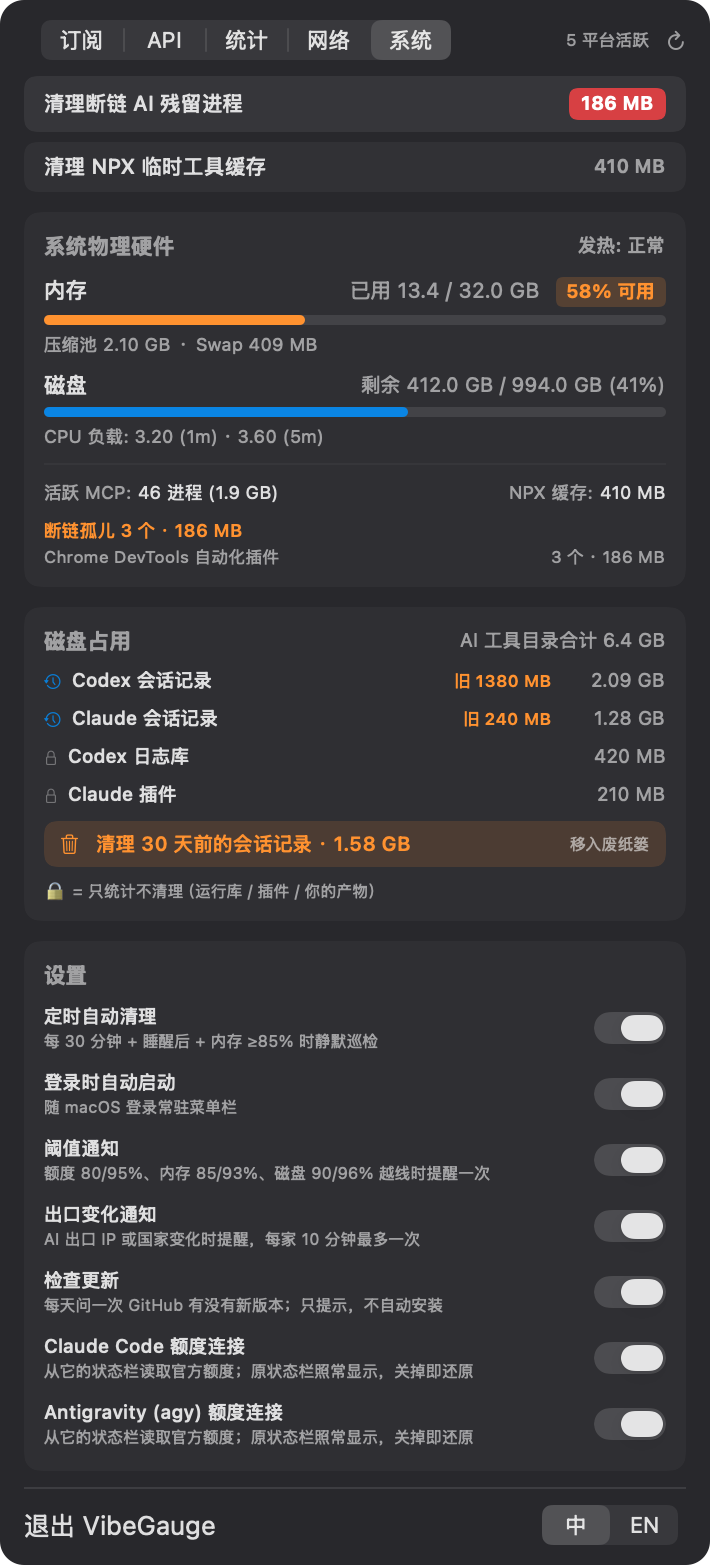
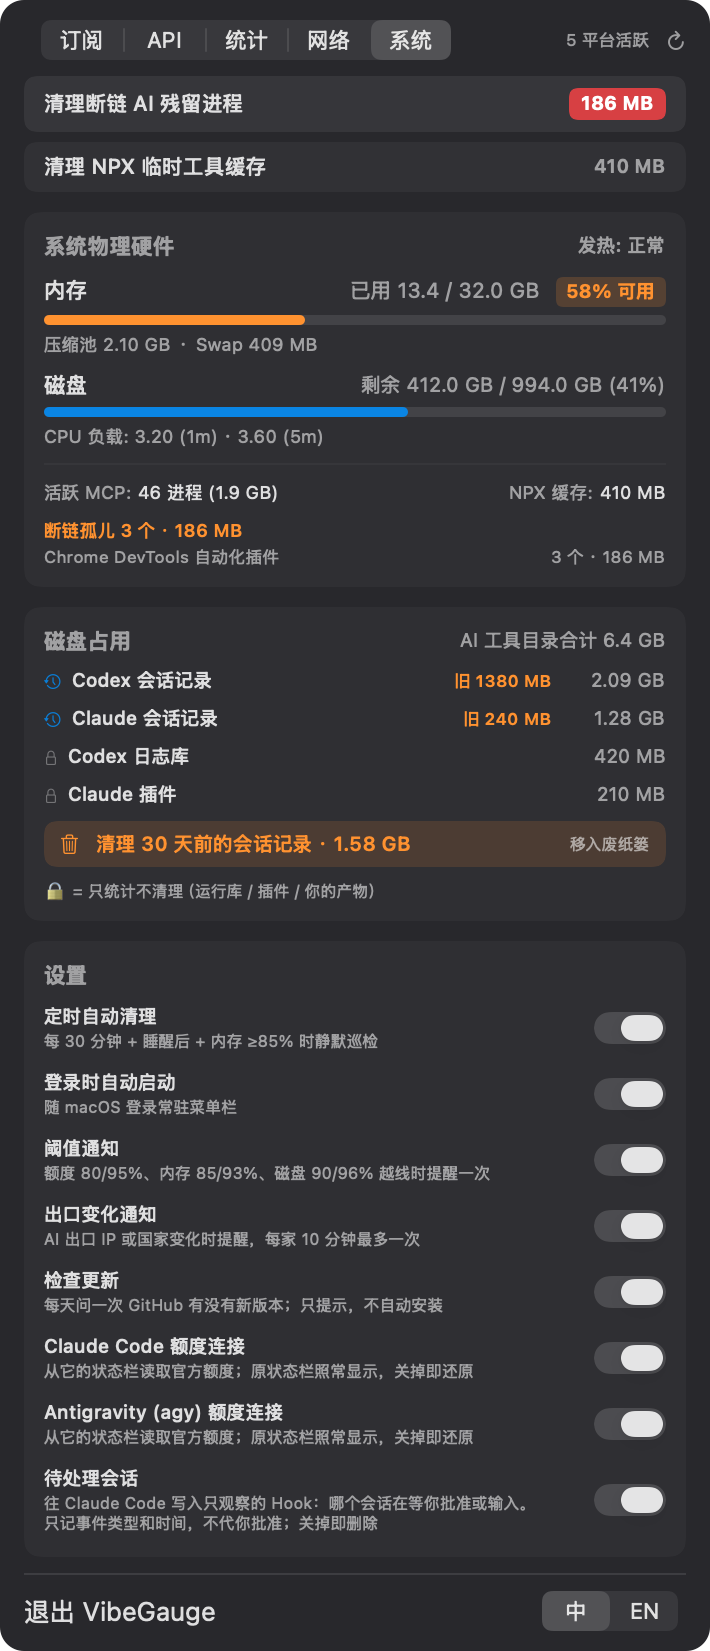
feat: sessions waiting on you, via observe-only Claude Code hooks (C3)
Opt-in "Pending sessions" (Mac -> Settings) appends observe-only hooks to
~/.claude/settings.json (backed up first; existing hooks kept; turning it off
removes only these entries). The hook records per session the event type,
time, working directory, and tool name, never tool input, messages, or
prompts, writes nothing to stdout (for PermissionRequest that would answer
the prompt), and always exits 0 within a 5 s timeout.

- PermissionRequest marks a session as possibly waiting; the panel trusts it
  after 8 s (another hook may have answered) or at once when Claude's own
  permission_prompt notification confirms it. idle_prompt / MCP elicitation
  mean waiting for input. PostToolUse(Failure), UserPromptSubmit, Stop, and
  SessionEnd clear the session; clear events for unknown sessions do not
  touch the file.
- The Plans tab lists waiting sessions (approval first, oldest first); a
  notification fires once per wait after 60 s of waiting for approval.
- Codex is not covered yet (different hook model and client trust review).

Self-tests: merge / uninstall keep other hooks byte-for-byte, zero stdout on
every event including bad input, no command or message text on disk, state
transitions, 8 s confirmation rule.

diff --git a/Sources/AppDelegate.swift b/Sources/AppDelegate.swift
@@ -298,6 +298,7 @@ class AppDelegate: NSObject, NSApplicationDelegate, NSMenuDelegate {
                           + signals.prefix(8).map { "\($0.short)  \($0.pct)%" + ($0.level > 0 ? "  ⚠" : "") }).joined(separator: "\n")
         evaluateThresholds(signals)
         evaluateForecasts(report)
+        evaluatePending(report)
     }
 
     // MARK: - 预计打满提醒（每池每周期一次；预测要持续 15 分钟才算稳定；重启不重报）
@@ -490,6 +491,7 @@ class AppDelegate: NSObject, NSApplicationDelegate, NSMenuDelegate {
         actions.relayout = { [weak self] in self?.relayoutMenuPanel() }
         actions.quit = { NSApp.terminate(nil) }
         actions.setQuotaBridge = { [weak self] tool, on in self?.setQuotaBridge(tool, on: on) }
+        actions.setPendingHooks = { [weak self] on in self?.setPendingHooks(on) }
 
         let dashboard = DashboardView(
             store: reportStore,
@@ -617,6 +619,45 @@ class AppDelegate: NSObject, NSApplicationDelegate, NSMenuDelegate {
     }
 
     /// 连接 / 断开状态栏桥接（改的是 Claude Code / agy 的 settings.json，脚本会先备份）
+    /// 待处理会话：往 Claude Code 的 hooks 里写（或删）本脚本的观察型 Hook
+    func setPendingHooks(_ on: Bool) {
+        DispatchQueue.global(qos: .userInitiated).async { [weak self] in
+            var title = on ? L("待处理会话已开启", "Pending sessions on") : L("待处理会话已关闭", "Pending sessions off")
+            var body = on
+                ? L("新开的 Claude Code 会话生效。只记事件类型和时间，不代你批准；原配置已备份为 settings.json.vibegauge-hooks-backup。",
+                    "Takes effect in new Claude Code sessions. Only event types and times are recorded; it never answers for you. Settings backed up to settings.json.vibegauge-hooks-backup.")
+                : L("已从 Claude Code 配置里删掉 VibeGauge 的 Hook，其他 Hook 不动。", "VibeGauge's hooks were removed from Claude Code settings; other hooks are untouched.")
+            do {
+                if on { try StatuslineBridge.shared.connectHooks() } else { try StatuslineBridge.shared.disconnectHooks() }
+            } catch {
+                title = on ? L("开启失败", "Couldn't turn on") : L("关闭失败", "Couldn't turn off")
+                body = error.localizedDescription
+            }
+            DispatchQueue.main.async {
+                self?.sendNotification(title: title, body: body)
+                self?.updateStatus()
+            }
+        }
+    }
+
+    // MARK: - 等你处理的会话提醒：等批准超过 1 分钟，每次等待只提醒一次
+    private var pendingNotified = Set<String>()
+    static let pendingNotifyAfter: TimeInterval = 60
+
+    private func evaluatePending(_ report: ScanReport) {
+        let now = Date().timeIntervalSince1970
+        let live = Set(report.pending.map { "\($0.id)@\(Int($0.since))" })
+        pendingNotified = pendingNotified.filter { live.contains($0) }
+        for p in report.pending where p.kind == .permission && now - p.since >= Self.pendingNotifyAfter {
+            let key = "\(p.id)@\(Int(p.since))"
+            guard pendingNotified.insert(key).inserted else { continue }
+            let dir = (p.cwd as NSString).lastPathComponent
+            sendNotification(title: L("⏸ 会话在等你批准", "⏸ A session is waiting for approval"),
+                             body: L("\(dir.isEmpty ? "Claude Code" : dir)：\(p.tool.isEmpty ? "工具调用" : p.tool) 已等 \(Int((now - p.since) / 60)) 分钟",
+                                     "\(dir.isEmpty ? "Claude Code" : dir): \(p.tool.isEmpty ? "a tool call" : p.tool) waiting for \(Int((now - p.since) / 60)) min"))
+        }
+    }
+
     func setQuotaBridge(_ raw: String, on: Bool) {
         guard let tool = StatuslineBridge.Tool(rawValue: raw) else { return }
         let name = tool == .claude ? "Claude Code" : "agy"

diff --git a/Sources/DashboardView.swift b/Sources/DashboardView.swift
@@ -119,6 +119,8 @@ public struct PanelActions {
     public var quit: () -> Void = {}
     /// 状态栏桥接：("claude" | "agy", 连接 / 断开)
     public var setQuotaBridge: (String, Bool) -> Void = { _, _ in }
+    /// 待处理会话 Hook（写入 / 删除 Claude Code 配置里的观察型 Hook）
+    public var setPendingHooks: (Bool) -> Void = { _ in }
     public init() {}
 }
 
@@ -707,6 +709,10 @@ public struct DashboardView: View {
                 }
             }
 
+            if !report.pending.isEmpty {
+                Divider().opacity(0.35)
+                pendingSection(report.pending)
+            }
             if !report.sessions.isEmpty {
                 Divider().opacity(0.35)
                 sessionContextSection(report.sessions)
@@ -1065,6 +1071,11 @@ public struct DashboardView: View {
                                isOn: Binding(get: { isDemo || StatuslineBridge.shared.isConnected(t) }, set: { actions.setQuotaBridge(tool, $0) }))
                 }
             }
+            if isDemo || StatuslineBridge.shared.toolInstalled(.claude) {
+                settingRow(L("待处理会话", "Pending sessions"),
+                           detail: L("往 Claude Code 写入只观察的 Hook：哪个会话在等你批准或输入。只记事件类型和时间，不代你批准；关掉即删除", "Adds observe-only hooks to Claude Code to show which sessions wait for approval or input. Records event types and times only; never answers for you; off removes them"),
+                           isOn: Binding(get: { isDemo || StatuslineBridge.shared.hooksConnected() }, set: { actions.setPendingHooks($0) }))
+            }
         }
         .padding(10)
         .background(Color.secondary.opacity(0.06))
@@ -1401,6 +1412,29 @@ public struct DashboardView: View {
                 .foregroundColor(llm.isRunning ? .secondary : .secondary.opacity(0.75))
                 .lineLimit(1)
                 .fixedSize()
+        }
+    }
+
+    /// 等你处理的会话：等批准的排前面，按等了多久
+    private func pendingSection(_ items: [PendingSession]) -> some View {
+        VStack(alignment: .leading, spacing: 3) {
+            HStack {
+                Text(L("待处理", "Waiting on you")).font(.system(size: 11, weight: .bold)).foregroundColor(.orange)
+                Spacer()
+                Text(L("\(items.count) 个会话", "\(items.count) sessions")).font(.system(size: 9)).foregroundColor(.secondary)
+            }
+            ForEach(items.sorted { ($0.kind == .permission ? 0 : 1, $0.since) < ($1.kind == .permission ? 0 : 1, $1.since) }) { p in
+                HStack(spacing: 5) {
+                    Image(systemName: p.kind == .permission ? "hand.raised.fill" : "text.cursor")
+                        .font(.system(size: 8)).foregroundColor(p.kind == .permission ? .orange : .blue)
+                    Text((p.cwd as NSString).lastPathComponent.isEmpty ? "Claude Code" : (p.cwd as NSString).lastPathComponent)
+                        .font(.system(size: 9, weight: .semibold)).lineLimit(1)
+                    Text(p.kind == .permission ? L("等你批准", "needs approval") + (p.tool.isEmpty ? "" : " · \(p.tool)") : L("等你输入", "waiting for input"))
+                        .font(.system(size: 8.5)).foregroundColor(.secondary).lineLimit(1)
+                    Spacer(minLength: 4)
+                    Text(Fmt.agoShort(Int(nowTS - p.since))).font(.system(size: 8.5)).foregroundColor(nowTS - p.since > 300 ? .orange : .secondary)
+                }
+            }
         }
     }
 

diff --git a/Sources/SessionMonitor.swift b/Sources/SessionMonitor.swift
@@ -120,3 +120,39 @@ extension ProcessScanner {
         return out.sorted { $0.updatedAt > $1.updatedAt }
     }
 }
+
+/// 在等你处理的会话（来自 Claude Code 的观察型 Hook；只有事件类型、时间、会话 ID、目录、工具名）
+public struct PendingSession: Identifiable, Equatable {
+    public enum Kind: Equatable { case permission, input }
+    public var id: String
+    public var kind: Kind
+    public var since: TimeInterval
+    public var tool: String
+    public var cwd: String
+}
+
+extension ProcessScanner {
+    /// PermissionRequest 之后可能被别的 Hook 自动处理掉：记下 8 秒后还没清除，或收到 Claude 自己的
+    /// permission_prompt 通知（约 6 秒后发），才算真的在等你
+    static let permissionConfirmAfter: TimeInterval = 8
+
+    static func parsePending(_ json: [String: Any]?, now: TimeInterval) -> [PendingSession] {
+        let rows = json?["sessions"] as? [String: Any] ?? [:]
+        return rows.compactMap { sid, v -> PendingSession? in
+            guard let r = v as? [String: Any], let state = r["state"] as? String,
+                  let since = (r["since"] as? NSNumber)?.doubleValue else { return nil }
+            let kind: PendingSession.Kind
+            switch state {
+            case "permission": kind = .permission
+            case "permission_pending" where now - since >= permissionConfirmAfter: kind = .permission
+            case "input": kind = .input
+            default: return nil
+            }
+            return PendingSession(id: sid, kind: kind, since: since, tool: r["tool"] as? String ?? "", cwd: r["cwd"] as? String ?? "")
+        }.sorted { $0.since < $1.since }
+    }
+
+    func scanPending(now: TimeInterval = Date().timeIntervalSince1970) -> [PendingSession] {
+        Self.parsePending(readJSON("\(home)/.config/vibegauge/claude-waiting.json"), now: now)
+    }
+}

diff --git a/Sources/ProxyManager.swift b/Sources/ProxyManager.swift
@@ -219,9 +219,36 @@ final class StatuslineBridge {
         try runScript(["--uninstall", tool.rawValue])
     }
 
+    /// 待处理会话 Hook 已写进 Claude Code 配置（hooks 里有本脚本的 --hook 命令）
+    func hooksConnected() -> Bool {
+        guard let data = FileManager.default.contents(atPath: settingsPath(.claude)),
+              let json = try? JSONSerialization.jsonObject(with: data) as? [String: Any],
+              let hooks = json["hooks"] as? [String: Any] else { return false }
+        return hooks.values.contains { groups in
+            (groups as? [[String: Any]] ?? []).contains { g in
+                (g["hooks"] as? [[String: Any]] ?? []).contains { ($0["command"] as? String).map { $0.contains("vibegauge-statusline.py") && $0.contains("--hook") } ?? false }
+            }
+        }
+    }
+
+    func connectHooks() throws {
+        lock.lock(); defer { lock.unlock() }
+        guard ProxyManager.pythonWorks() else {
+            throw NSError(domain: "VibeGauge", code: 2, userInfo: [NSLocalizedDescriptionKey:
+                L("python3 不可用：请先在终端运行 xcode-select --install 安装命令行工具", "python3 is unavailable: run `xcode-select --install` in Terminal first")])
+        }
+        try syncScript()
+        try runScript(["--install-hooks", "claude"])
+    }
+
+    func disconnectHooks() throws {
+        lock.lock(); defer { lock.unlock() }
+        try runScript(["--uninstall-hooks", "claude"])
+    }
+
     /// App 启动时：连着的话把包里新版脚本同步过去（内容相同不写）
     func syncIfConnected() {
-        guard Tool.allCases.contains(where: isConnected) else { return }
+        guard Tool.allCases.contains(where: isConnected) || hooksConnected() else { return }
         try? syncScript()
     }
 

diff --git a/Sources/SelfTest.swift b/Sources/SelfTest.swift
@@ -187,6 +187,20 @@ enum SelfTest {
             precondition(err.fiveHour == nil && err.error?.contains("upstream 502") == true)
             precondition(ProcessScanner.parseKimiUsage(["unexpected": true], capturedAt: 1).error != nil)
         }
+        // 待处理会话：刚记下的等权限要等 8 秒（可能被别的 Hook 自动处理），有 permission_prompt 确认就立刻算
+        do {
+            let t: TimeInterval = 1_790_000_000
+            let json: [String: Any] = ["sessions": [
+                "fresh": ["state": "permission_pending", "since": t - 3, "tool": "Bash", "cwd": "/Users/x/a"],
+                "held": ["state": "permission_pending", "since": t - 30, "tool": "Edit", "cwd": "/Users/x/b"],
+                "confirmed": ["state": "permission", "since": t - 2, "tool": "Bash"],
+                "idle": ["state": "input", "since": t - 90],
+                "odd": ["state": "working", "since": t - 5]]]
+            let p = ProcessScanner.parsePending(json, now: t)
+            precondition(Set(p.map(\.id)) == ["held", "confirmed", "idle"], "待处理：\(p.map(\.id))")
+            precondition(p.first { $0.id == "idle" }?.kind == .input && p.first { $0.id == "held" }?.tool == "Edit")
+            precondition(ProcessScanner.parsePending(nil, now: t).isEmpty)
+        }
         precondition(ProxyManager.validPort(0) == 18790 && ProxyManager.validPort(80) == 18790 && ProxyManager.validPort(18791) == 18791 && ProxyManager.validPort(70000) == 18790)
 
         // Codex 跨零点：total_token_usage 是会话累计，今天只算零点后新增的；请求数只数今天的事件

diff --git a/tools/screenshots.swift b/tools/screenshots.swift
@@ -129,6 +129,8 @@ struct Screenshots {
         s1.compactions = [Compaction(at: now - 2 * hour, pre: 812_000, post: 24_000)]
         let s2 = SessionContext(id: "demo-2", tool: "Codex", cwd: "~/code/api-server", model: "gpt-6-astra", usedPct: 34, window: 272_000, updatedAt: now - 300)
         r.sessions = [s1, s2]
+        r.pending = [PendingSession(id: "demo-p1", kind: .permission, since: now - 190, tool: "Bash", cwd: "~/code/api-server"),
+                     PendingSession(id: "demo-p2", kind: .input, since: now - 75, tool: "", cwd: "~/code/landing-page")]
 
         var t = TokenStats()
         t.todayTurns = 412; t.todayContext = 86_400_000; t.todayCacheRead = 83_900_000

diff --git a/Sources/Models.swift b/Sources/Models.swift
@@ -320,6 +320,8 @@ public struct ScanReport {
     public var cliUsage: [CLIUsage] = []
     /// 近期活跃会话的上下文水位与压缩记录
     public var sessions: [SessionContext] = []
+    /// 在等你批准 / 输入的会话（需开启「待处理会话」Hook）
+    public var pending: [PendingSession] = []
 
     // API Key 调用（记账代理）
     public var api: ProxyStatus = ProxyStatus()

diff --git a/Sources/ProcessScanner.swift b/Sources/ProcessScanner.swift
@@ -258,6 +258,7 @@ public final class ProcessScanner {
         report.api = scanAPI()
         report.cliUsage = scanCLIUsage(claude: report.tokens)
         report.sessions = scanSessions()
+        report.pending = scanPending()
         return report
     }
 

diff --git a/docs/PROTOCOL.md b/docs/PROTOCOL.md
@@ -30,6 +30,7 @@ All files live in `~/.config/vibegauge/`. The app and helpers create the directo
 | `plans.json` | you | Stable | Plan estimates are no longer shown |
 | `proxy.json` | you | Stable | The accounting proxy goes back to environment / system proxy settings |
 | `claude-sessions.json` | statusline bridge | Internal | Session context levels disappear until each session's statusline refreshes |
+| `claude-waiting.json` | pending-session hook | Internal | Sessions currently waiting on you disappear from the list until their next event |
 | `statusline-claude.json`, `statusline-agy.json` | statusline bridge | Internal | **Your original statusline command is forgotten**; the bridge shows its own short line and `--uninstall` can no longer restore it |
 | `quota-samples.json` | app | Internal | Burn rate restarts from scratch; last-cycle finals are lost |
 | `usage-daily.json` | app | Internal | **History of session logs you already deleted is lost for good**; history of logs still on disk is rebuilt |
@@ -166,6 +167,12 @@ agy only reports the pool of the current model, so the bridge merges into the ex
 `{"sessions": {"<session_id>": {"used_pct", "window", "model", "cwd", "at"}}, "updated_at"}`: Claude Code's `context_window.used_percentage` (input tokens only: fresh + cache writes + cache reads, as Claude Code defines it) and `context_window_size` per session, saved on every statusline refresh under a lock. `used_pct` is null right after `/compact` until the next request. Only numbers, the model ID, the working directory, and a time are kept; sessions idle for 24 hours are dropped (at most 50).
 
 Codex context levels are read from its session logs instead: `info.last_token_usage.total_tokens ÷ info.model_context_window` from the latest `token_count` event (the cumulative total does not drop after compaction, so it cannot be used). Compactions are the `compacted` lines (Codex) and `system` / `compact_boundary` lines (Claude, with pre / post token counts).
+
+### Pending-session hooks and `claude-waiting.json` (Internal)
+
+Turning on "Pending sessions" (Mac → Settings) runs `vibegauge-statusline.py --install-hooks claude`: it backs up `~/.claude/settings.json` to `settings.json.vibegauge-hooks-backup` (0600) and appends one group per event to `hooks` — `PermissionRequest`, `Notification`, `PostToolUse`, `PostToolUseFailure`, `UserPromptSubmit`, `Stop`, `SessionEnd` — each running `/usr/bin/python3 ~/.config/vibegauge/vibegauge-statusline.py --hook claude` with a 5 s timeout. Existing hooks are kept; turning it off removes only these entries.
+
+The hook **never writes to stdout** (for `PermissionRequest` that would answer the prompt for you) and always exits 0. It records per `session_id`: `state` (`permission_pending` → `permission` once Claude's `permission_prompt` notification arrives; `input` on `idle_prompt` or an MCP elicitation), `since`, `tool` (tool name only), `cwd`, `at`. Tool input, messages, and prompts are not stored. A later `PostToolUse`, `PostToolUseFailure`, `UserPromptSubmit`, `Stop`, or `SessionEnd` clears the session. The panel counts `permission_pending` only after 8 s (another hook may have answered it) and notifies once per wait after 60 s. Codex is not covered yet.
 
 ### `statusline-<tool>.json` (Internal)
 

diff --git a/README.md b/README.md
@@ -70,6 +70,8 @@ When using autonomous coding agents like **Claude Code**, **OpenAI Codex**, **Go
   - **Codex**: Detects primary `codex` bucket usage, identifies `usage_limit_exceeded` exact unlock timestamps, and supports optional passwordless SSH synchronization from remote dev machines.
   - **Gemini / Antigravity**: Tracks official and 3rd-party quota pools with respective reset dates.
   - **Grok**: Reads weekly credit usage and billing cycle reset boundaries.
+  - **Sessions waiting on you** (optional, Claude Code hooks): which sessions wait for approval or input, and for how long; a notification after a minute. Observe-only: it records event types and times, never answers a prompt.
+  - **Session context**: how full each active Claude / Codex session's context window is, and today's compactions.
   - **Local Model Probing**: Ollama, LM Studio (including headless llmster), llama.cpp (`llama-server`), and MLX (`mlx_lm.server`): online with which models loaded, online but idle, or process running but not answering. Read-only local requests; never triggers a model load.
   - **Forecast that knows you sleep**: Weekly quotas are projected from *your* last 7 days of usage — which hours you actually code (from local CLI logs) and how much you used last cycle — so a busy evening isn't extrapolated through the night. 5-hour windows use the recent pace.
 - 📈 **Today's Token Analytics & Prompt Cache ROI**:

diff --git a/README_zh.md b/README_zh.md
@@ -66,6 +66,8 @@
   - **Codex**：解析主桶配额与打满状态，智能识别 `usage_limit_exceeded` 确切解封时刻；支持远程机器 SSH 免密拉取同步。
   - **Gemini / Antigravity**：实时跟踪官方池与三方池额度、重置周期。
   - **Grok**：实时读取周用量百分比与周期重置时间。
+  - **待处理会话**（可选，Claude Code Hook）：哪个会话在等你批准或输入、等了多久，超过 1 分钟提醒一次。只观察：记事件类型和时间，从不替你批准。
+  - **会话上下文**：每个活跃的 Claude / Codex 会话上下文用了多少、今天压缩过几次。
   - **本地运行探测**：Ollama、LM Studio（含独立版 llmster）、llama.cpp（`llama-server`）、MLX（`mlx_lm.server`）：区分「在线 · 已加载哪些模型」「在线但空载」「进程在跑但接口没应答」。只发本机只读请求，不会触发加载模型。
   - **懂你作息的额度预测**：周额度按**你自己近 7 天**的使用情况推算——几点在用（来自本地 CLI 日志）、上个周期用了多少——晚上猛用一阵不会被外推成通宵都在烧。5 小时窗口仍看近期节奏。
 - 📈 **今日 Token 用量与缓存命中率大盘**：
